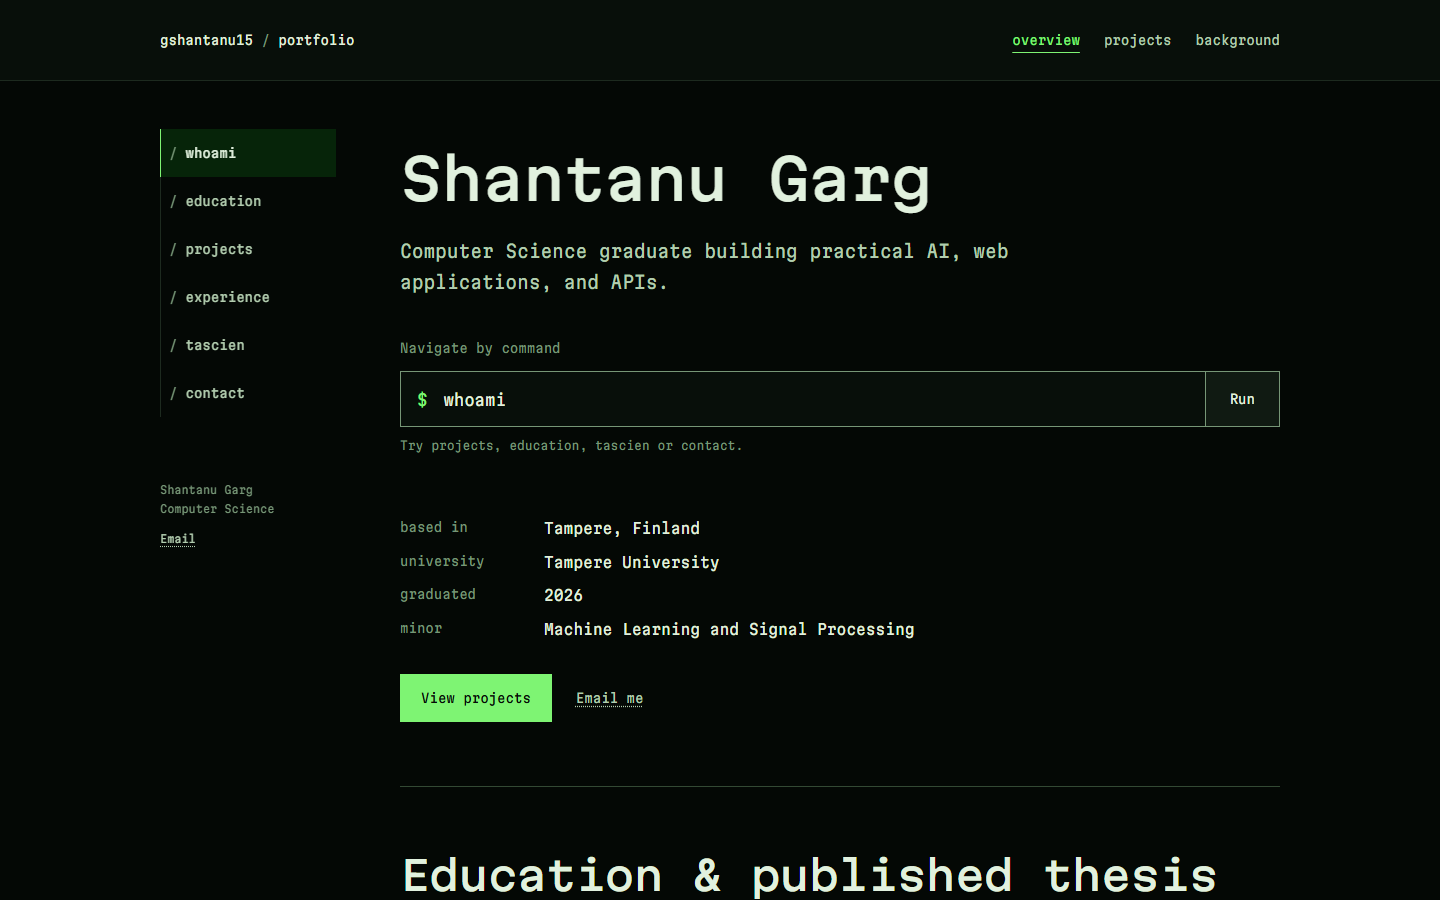
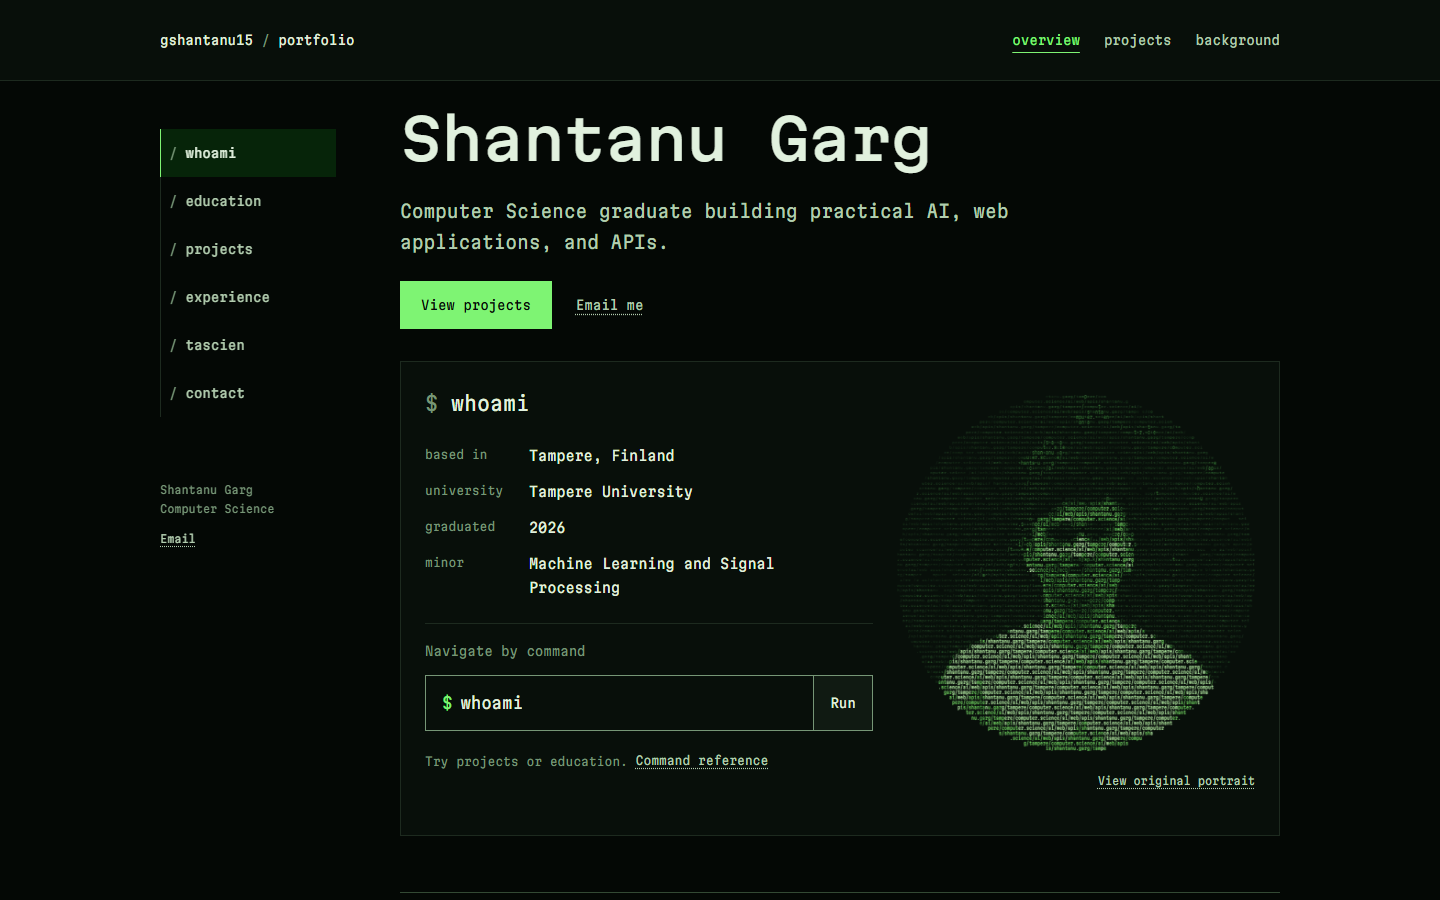
Verify identity motion fallbacks and responsive command reference

diff --git a/prototype/review.html b/prototype/review.html
@@ -94,6 +94,14 @@
 <footer class="terminal-footer">
 <p>Local prototype review. Root production pages are unchanged.</p>
 <a href="review/checks.json">Browser verification results</a>
+<nav aria-label="Identity revision review">
+<a href="review/identity-session-1440.png">Desktop glyph portrait and session</a>
+<a href="review/identity-session-390.png">Mobile glyph portrait and session</a>
+<a href="review/command-reference-1440.png">Command reference</a>
+<a href="review/identity-no-js-1440.png">Without JavaScript</a>
+<a href="review/identity-reduced-motion-1440.png">Reduced motion</a>
+<a href="review/identity-checks.json">Identity verification results</a>
+</nav>
 </footer>
 </main>
 </body>
